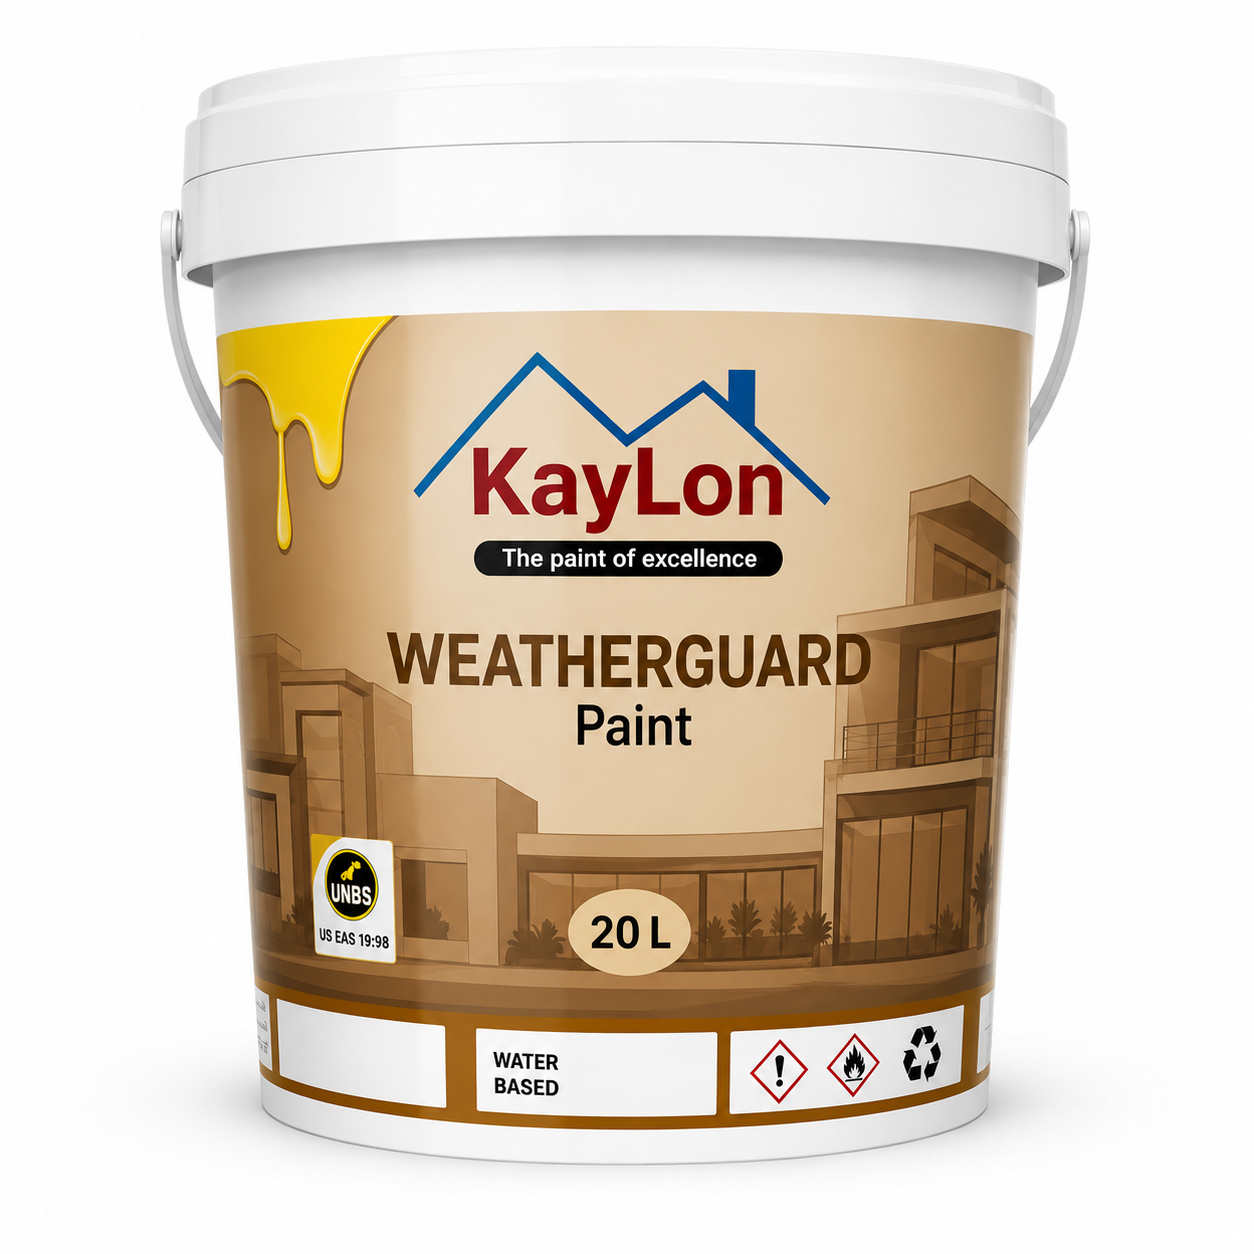
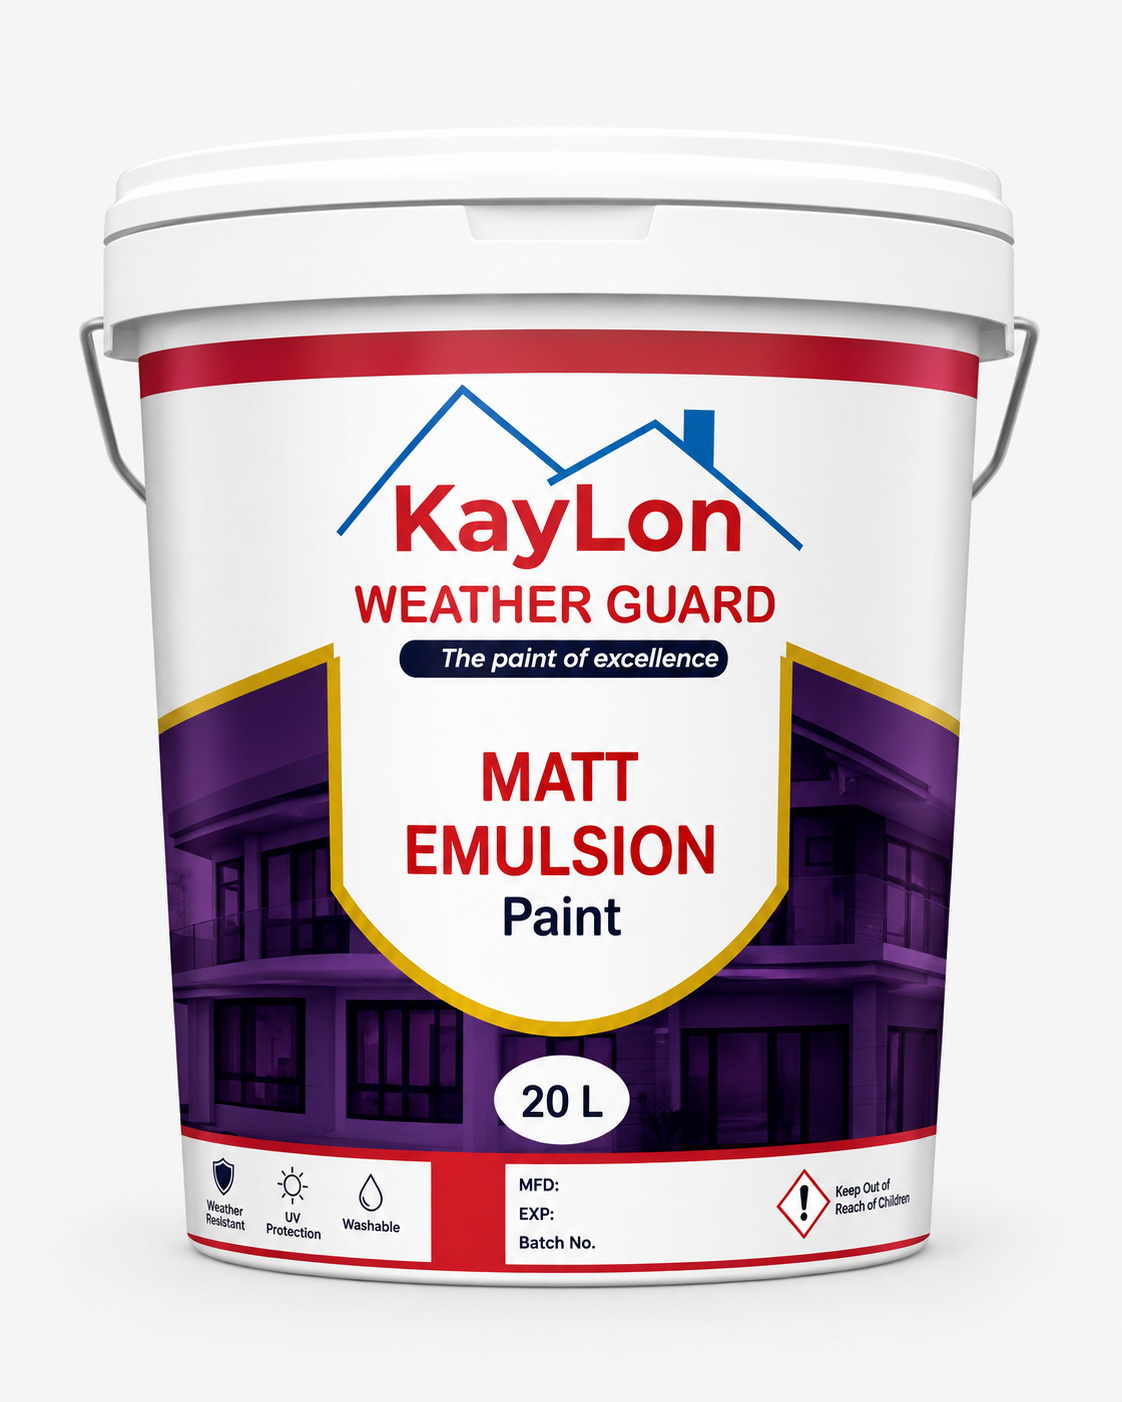
Update factory page, products page, and fix gallery images
📄 UPDATED:
- Factory page: Improved glassmorphism and layout
- Products page: Enhanced product display and filters

🖼️ IMAGE FIXES:
- Renamed gallery-9.png to gallery9.png for consistency
- Updated weather-guard.png product image
- Removed duplicate gallery-9.png

diff --git a/app/products/page.tsx b/app/products/page.tsx
@@ -86,7 +86,7 @@ const allProducts = [
     name: "Matt Emulsion Paint",
     category: "interior",
     description: "Low VOC, environmentally friendly paint with natural ingredients",
-    image: "/products/eco.png",
+    image: "/products/silk.png",
     price: "UGX 350,000",
     rating: 4.9,
     reviews: 112,
@@ -108,7 +108,7 @@ const allProducts = [
     name: "Vinyl Silk Paint",
     category: "industrial",
     description: "Industrial-grade silk for walls walls and surfaces",
-    image: "/products/silk.png",
+    image: "/products/eco.png",
     price: "UGX 350,000",
     rating: 4.7,
     reviews: 34,

diff --git a/app/factory/page.tsx b/app/factory/page.tsx
@@ -258,7 +258,7 @@ export default function FactoryPage() {
             >
               <div className="relative h-[350px] sm:h-[400px] md:h-[500px] rounded-2xl overflow-hidden shadow-2xl border border-white/50">
                 <Image
-                  src="/factory/gallery-9.png"
+                  src="/factory/gallery9.png"
                   alt="KayLon Factory"
                   fill
                   className="object-cover"